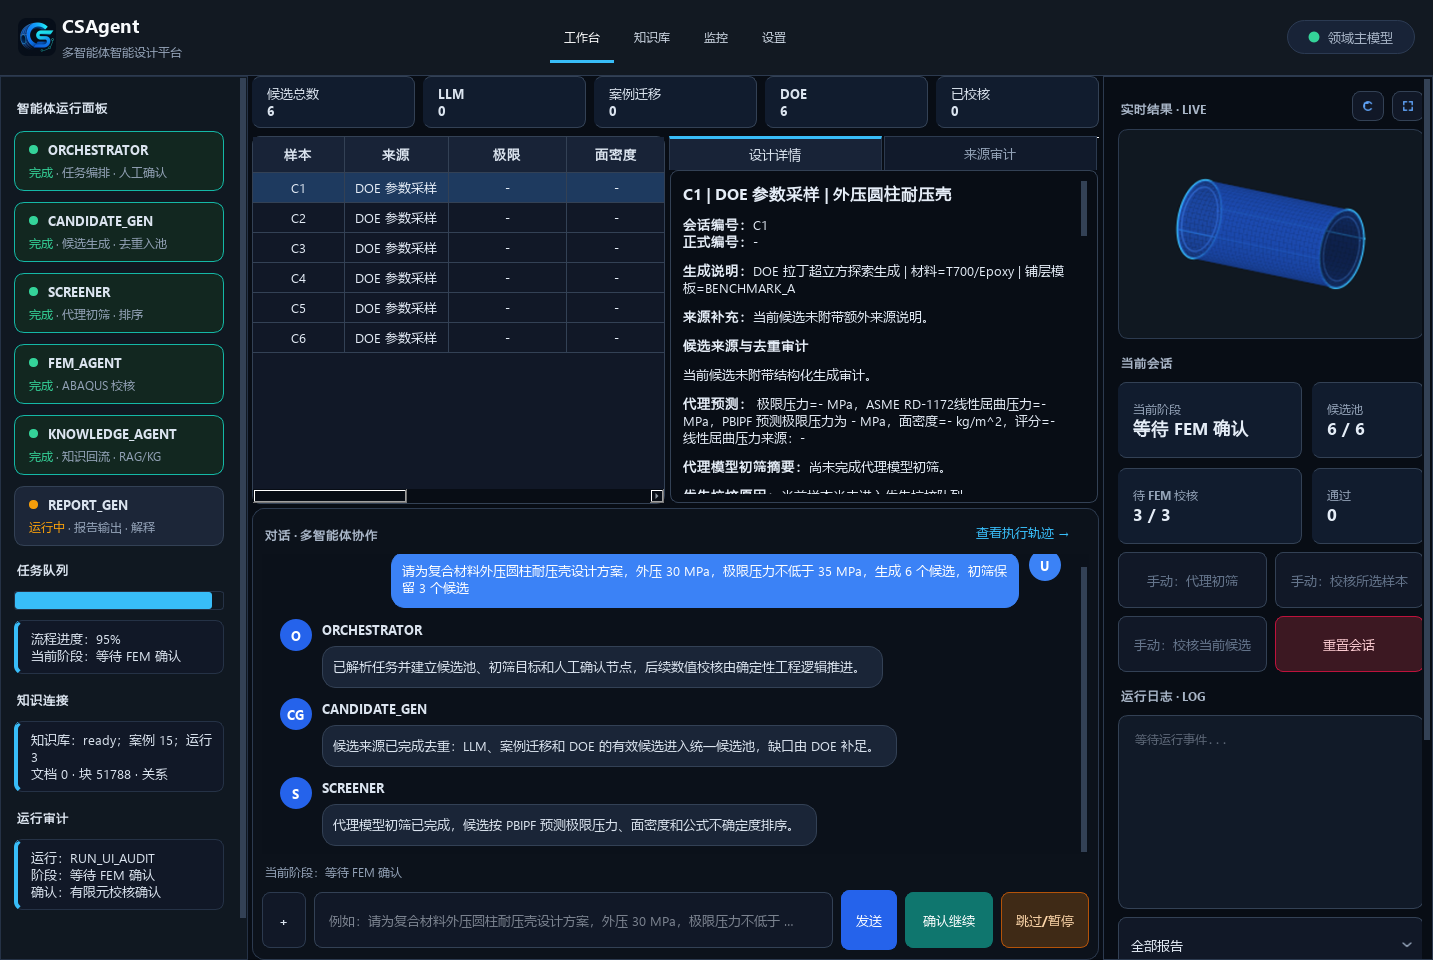
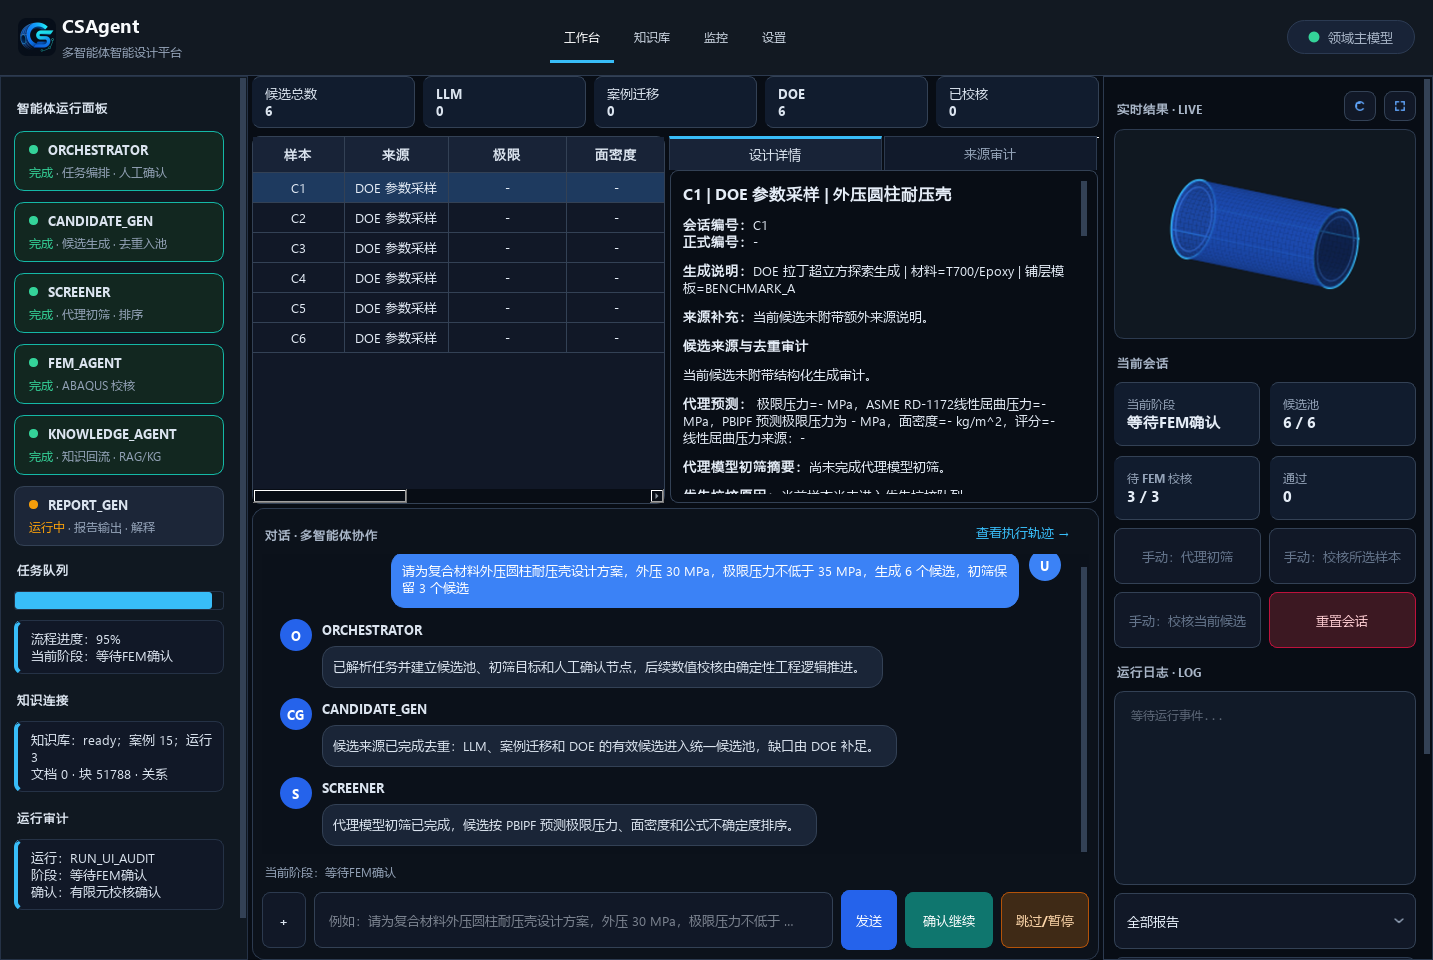
优化工作台右侧栏与设置页布局

diff --git a/gui/main_window.py b/gui/main_window.py
@@ -304,12 +304,14 @@ class MainWindow(QMainWindow):
             self.nav_group.addButton(button, index)
         self.nav_buttons[0].setChecked(True)
         self.language_selector = QComboBox()
+        self.language_selector.setObjectName("settingsInput")
         for language, label in LANGUAGE_OPTIONS.items():
             self.language_selector.addItem(label, language)
         current_language_index = self.language_selector.findData(self.locale.language)
         if current_language_index >= 0:
             self.language_selector.setCurrentIndex(current_language_index)
         self.theme_selector = QComboBox()
+        self.theme_selector.setObjectName("settingsInput")
         for theme, label in THEME_OPTIONS[self.locale.language].items():
             self.theme_selector.addItem(label, theme)
         current_theme_index = self.theme_selector.findData(self.locale.theme)
@@ -370,15 +372,11 @@ class MainWindow(QMainWindow):
         self.pending_card = QLabel(self.locale.text("metric.pending_zero"))
         self.pass_card = QLabel(self.locale.text("metric.pass", count=0))
         for metric_card in [self.stage_card, self.candidate_card, self.pending_card, self.pass_card]:
-            metric_card.setFixedHeight(76)
+            metric_card.setFixedHeight(64)
             metric_card.setWordWrap(True)
             metric_card.setTextFormat(Qt.TextFormat.RichText)
             metric_card.setSizePolicy(QSizePolicy.Policy.Expanding, QSizePolicy.Policy.Fixed)
             metric_card.setAlignment(Qt.AlignmentFlag.AlignLeft | Qt.AlignmentFlag.AlignVCenter)
-        for metric_card in [self.stage_card, self.pending_card]:
-            metric_card.setMinimumWidth(184)
-        for metric_card in [self.candidate_card, self.pass_card]:
-            metric_card.setMinimumWidth(112)
         self.stats_header = QLabel(self.locale.text("section.session"))
         self.stats_header.setObjectName("sectionTitle")
         self.log_header = QLabel(self.locale.text("section.runtime_log"))
@@ -451,7 +449,6 @@ class MainWindow(QMainWindow):
         self._refresh_run_selector()
         self.knowledge_widget.refresh(load_evidence=False)
         self._refresh_knowledge_sidebar()
-        self.live_result_view.show_reference_hull()
 
     def _sync_brand_logo(self) -> None:
         if not self._brand_badge_path.exists():
@@ -515,12 +512,12 @@ class MainWindow(QMainWindow):
         stats_layout.addWidget(self.candidate_card, 0, 1)
         stats_layout.addWidget(self.pending_card, 1, 0)
         stats_layout.addWidget(self.pass_card, 1, 1)
-        stats_layout.setColumnMinimumWidth(0, 184)
-        stats_layout.setColumnMinimumWidth(1, 108)
-        stats_layout.setColumnStretch(0, 4)
-        stats_layout.setColumnStretch(1, 2)
-        stats_layout.setRowMinimumHeight(0, 76)
-        stats_layout.setRowMinimumHeight(1, 76)
+        stats_layout.setColumnMinimumWidth(0, 0)
+        stats_layout.setColumnMinimumWidth(1, 0)
+        stats_layout.setColumnStretch(0, 1)
+        stats_layout.setColumnStretch(1, 1)
+        stats_layout.setRowMinimumHeight(0, 64)
+        stats_layout.setRowMinimumHeight(1, 64)
         stats_layout.setRowStretch(0, 0)
         stats_layout.setRowStretch(1, 0)
 
@@ -579,7 +576,7 @@ class MainWindow(QMainWindow):
         workbench_layout.addWidget(workbench_splitter)
 
         right_layout = QVBoxLayout()
-        right_layout.setContentsMargins(14, 14, 14, 14)
+        right_layout.setContentsMargins(10, 14, 22, 14)
         right_layout.setSpacing(8)
         live_header_layout = QHBoxLayout()
         live_header_layout.setContentsMargins(0, 0, 0, 0)
@@ -1338,12 +1335,12 @@ class MainWindow(QMainWindow):
         card = QFrame()
         card.setObjectName("configCard")
         card.setSizePolicy(QSizePolicy.Policy.Expanding, QSizePolicy.Policy.Fixed)
-        card.setMinimumHeight(92)
-        card.setMaximumHeight(92)
+        card.setMinimumHeight(74)
+        card.setMaximumHeight(74)
         layout = QGridLayout(card)
-        layout.setContentsMargins(12, 10, 12, 10)
+        layout.setContentsMargins(12, 7, 12, 7)
         layout.setHorizontalSpacing(12)
-        layout.setVerticalSpacing(8)
+        layout.setVerticalSpacing(4)
         title = QLabel("界面语言与主题")
         title.setObjectName("configCardTitle")
         layout.addWidget(title, 0, 0, 1, 4)
@@ -1357,9 +1354,9 @@ class MainWindow(QMainWindow):
             key_label.setObjectName("configKey")
             key_label.setWordWrap(False)
             key_label.setAlignment(Qt.AlignmentFlag.AlignLeft | Qt.AlignmentFlag.AlignVCenter)
-            key_label.setFixedHeight(38)
+            key_label.setFixedHeight(30)
             key_label.setMinimumWidth(92)
-            widget.setFixedHeight(38)
+            widget.setFixedHeight(30)
             layout.addWidget(key_label, 1, column * 2, Qt.AlignmentFlag.AlignVCenter)
             layout.addWidget(widget, 1, column * 2 + 1, Qt.AlignmentFlag.AlignVCenter)
             layout.setColumnStretch(column * 2 + 1, 1)
@@ -1487,17 +1484,20 @@ class MainWindow(QMainWindow):
     def _settings_path_field(self, key: str, value: object, mode: str) -> QWidget:
         wrapper = QWidget()
         wrapper.setObjectName("settingsPathField")
+        wrapper.setFixedHeight(38)
         layout = QHBoxLayout(wrapper)
-        layout.setContentsMargins(0, 0, 0, 0)
+        layout.setContentsMargins(0, 2, 0, 2)
         layout.setSpacing(8)
+        layout.setAlignment(Qt.AlignmentFlag.AlignVCenter)
         field = self._settings_line(key, value)
+        field.setFixedHeight(34)
         button = QPushButton("…")
         self._set_button_variant(button, "icon")
-        button.setFixedSize(34, 30)
+        button.setFixedSize(34, 34)
         button.setToolTip("选择本地路径")
         button.clicked.connect(lambda _checked=False, line=field, pick_mode=mode: self._browse_settings_path(line, pick_mode))
-        layout.addWidget(field, 1)
-        layout.addWidget(button)
+        layout.addWidget(field, 1, Qt.AlignmentFlag.AlignVCenter)
+        layout.addWidget(button, 0, Qt.AlignmentFlag.AlignVCenter)
         return wrapper
 
     def _browse_settings_path(self, field: QLineEdit, mode: str) -> None:
@@ -1528,20 +1528,22 @@ class MainWindow(QMainWindow):
         card = QFrame()
         card.setObjectName("configCard")
         card.setSizePolicy(QSizePolicy.Policy.Expanding, QSizePolicy.Policy.Fixed)
-        row_height = 40
-        row_gap = 10
-        title_height = 24
-        vertical_margins = 28
-        title_gap = 8
+        row_height = 38
+        row_gap = 9
+        title_height = 22
+        vertical_margins = 24
+        title_gap = 10
         form_height = len(rows) * row_height + max(0, len(rows) - 1) * row_gap
         card_height = max(118, vertical_margins + title_height + title_gap + form_height)
         card.setMinimumHeight(card_height)
         card.setMaximumHeight(card_height)
         layout = QVBoxLayout(card)
-        layout.setContentsMargins(12, 10, 12, 10)
-        layout.setSpacing(8)
+        layout.setContentsMargins(12, 12, 12, 12)
+        layout.setSpacing(title_gap)
         title_label = QLabel(title)
         title_label.setObjectName("configCardTitle")
+        title_label.setFixedHeight(title_height)
+        title_label.setAlignment(Qt.AlignmentFlag.AlignLeft | Qt.AlignmentFlag.AlignVCenter)
         layout.addWidget(title_label)
         form = QGridLayout()
         form.setContentsMargins(0, 0, 0, 0)
@@ -1563,6 +1565,7 @@ class MainWindow(QMainWindow):
         form_widget = QWidget()
         form_widget.setSizePolicy(QSizePolicy.Policy.Expanding, QSizePolicy.Policy.Fixed)
         form_widget.setLayout(form)
+        form_widget.setFixedHeight(form_height)
         layout.addWidget(form_widget)
         return card
 
@@ -2155,7 +2158,7 @@ class MainWindow(QMainWindow):
             return (
                 f"<span style='color:{label_color};font-size:12px;'>"
                 f"{label}</span><br>"
-                f"<span style='color:{value_color};font-size:17px;font-weight:800;'>"
+                f"<span style='color:{value_color};font-size:15px;font-weight:800;'>"
                 f"{value}</span>"
             )
 
@@ -2197,7 +2200,7 @@ class MainWindow(QMainWindow):
             "awaiting_screen_confirmation": "等待初筛确认",
             "screen_candidates": "代理初筛中",
             "screen_candidates_failed": "初筛失败",
-            "awaiting_fem_confirmation": "等待 FEM 确认",
+            "awaiting_fem_confirmation": "等待FEM确认",
             "evaluate_candidates": "有限元校核中",
             "evaluate_candidates_failed": "有限元失败",
             "persist_knowledge": "知识回流中",
@@ -2597,7 +2600,7 @@ class MainWindow(QMainWindow):
         if self.session.display_candidates:
             self.live_result_view.show_candidate(self.session.display_candidates[0])
             return
-        self.live_result_view.show_reference_hull()
+        self.live_result_view.reset_plotter(self.locale.text("live_view.empty"))
 
     def _start_conversation(self) -> None:
         instruction = self.input_line.text().strip()
@@ -2866,7 +2869,6 @@ class MainWindow(QMainWindow):
         self.result_trace_widget.update_trace([])
         self.workbench_candidate_widget.reset_view()
         self.live_result_view.reset_plotter(self.locale.text("live_view.empty"))
-        self.live_result_view.show_reference_hull()
         self.result_trace_widget.reset_view()
         self.workflow_widget.reset_view()
         self.model_status_label.set_state(self.locale.text("model.current"), "success")

diff --git a/gui/theme.py b/gui/theme.py
@@ -397,7 +397,7 @@ def application_stylesheet(font_family: str, theme: str = "dark") -> str:
         border: 1px solid {color["border_soft"]};
         border-left: 0;
         border-radius: 8px;
-        padding: 8px 12px;
+        padding: 6px 10px;
         font-weight: 600;
         color: {color["text"]};
     }}
@@ -455,8 +455,8 @@ def application_stylesheet(font_family: str, theme: str = "dark") -> str:
         margin-right: 8px;
     }}
     QLineEdit#settingsInput, QComboBox#settingsInput {{
-        min-height: 34px;
-        padding: 2px 10px;
+        min-height: 30px;
+        padding: 1px 10px;
         padding-right: 28px;
     }}
     QComboBox#settingsInput::drop-down {{

diff --git a/README.md b/README.md
@@ -31,7 +31,7 @@ PyQt6 桌面端默认为简体中文界面，“设置”页支持切换为 Engl
 
 主界面采用 `QMainWindow + QSplitter + QStackedWidget` 工程工作台布局。顶部为系统身份栏、工作台/知识库/监控/设置导航和当前模型标识；语言和主题配置位于“设置”页。当前模型标识读取 `llm_call_trace` 事件，显示本次调用实际使用的领域主模型、回退模型或失败状态，并同步写入运行日志。工作台左栏展示 `ORCHESTRATOR`、`CANDIDATE_GEN`、`SCREENER`、`FEM_AGENT`、`KNOWLEDGE_AGENT`、`REPORT_GEN` 的状态点、实时状态和任务队列；中部上方为自绘 LangGraph DAG，下方为对话优先的多智能体协作区和候选池；右栏展示实时三维视口、会话指标、运行日志、阶段报告、会话数据导出和报告打开入口。实时三维视口在本机 OpenGL 可用时使用 PyVista 交互视图，支持旋转、缩放、平移、双击重置、按钮重置视角和适配窗口。知识库页承载资料入库、RAG/KG 检索、文档表、五阶段入库流水线、可搜索/拖动/缩放/复位的核心知识图谱、节点选中审计、证据预览和案例记忆；监控页读取正式案例 FEM 指标绘制 Pareto 前沿、收敛历史、最佳案例指标，并保留工作流审计、运行日志和状态恢复入口；设置页提供主/回退 LLM、Abaqus、候选来源比例、人工确认节点、RAG/KG 分块和向量索引等本地 YAML 配置表单，并在右栏显示主模型、回退模型、Abaqus、RAG/KG、候选来源比例和人工确认节点的配置健康状态；该状态只显示环境变量是否提供，不显示密钥正文。界面层只显示和触发流程，不改变任务解析、候选生成、代理初筛、有限元校核、知识回流和报告生成的业务契约。会话数据导出写入 `data/results/session_export_<RUN_ID>.json` 和 `data/results/session_trace_<RUN_ID>.csv`，分别保存当前任务快照与 TMP-C-CASE 追踪表。
 
-![CSAgent 深色工程工作台](assets/screenshots/dark_workbench.png)
+![CSAgent 深色工程工作台](assets/screenshots/dark_workbench_runtime.png)
 
 展示图位于 `assets/screenshots/`，覆盖工作台、知识库、监控和设置页面。README 只展示默认深色工程主题，亮色工程主题作为 GUI 内可选外观保留。
 
